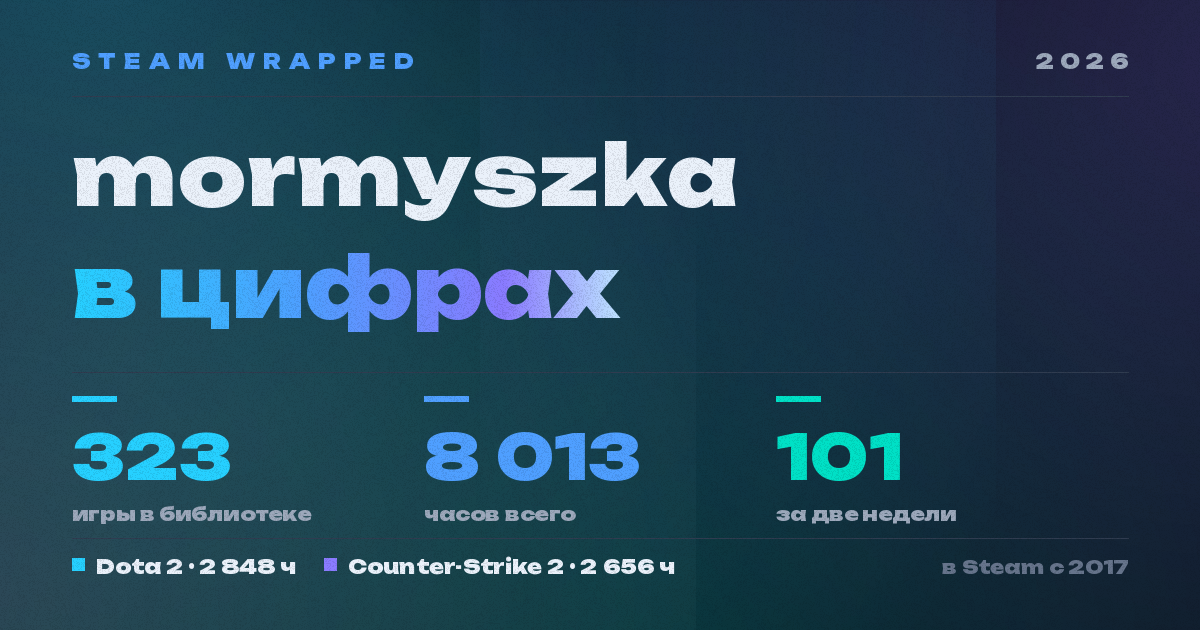
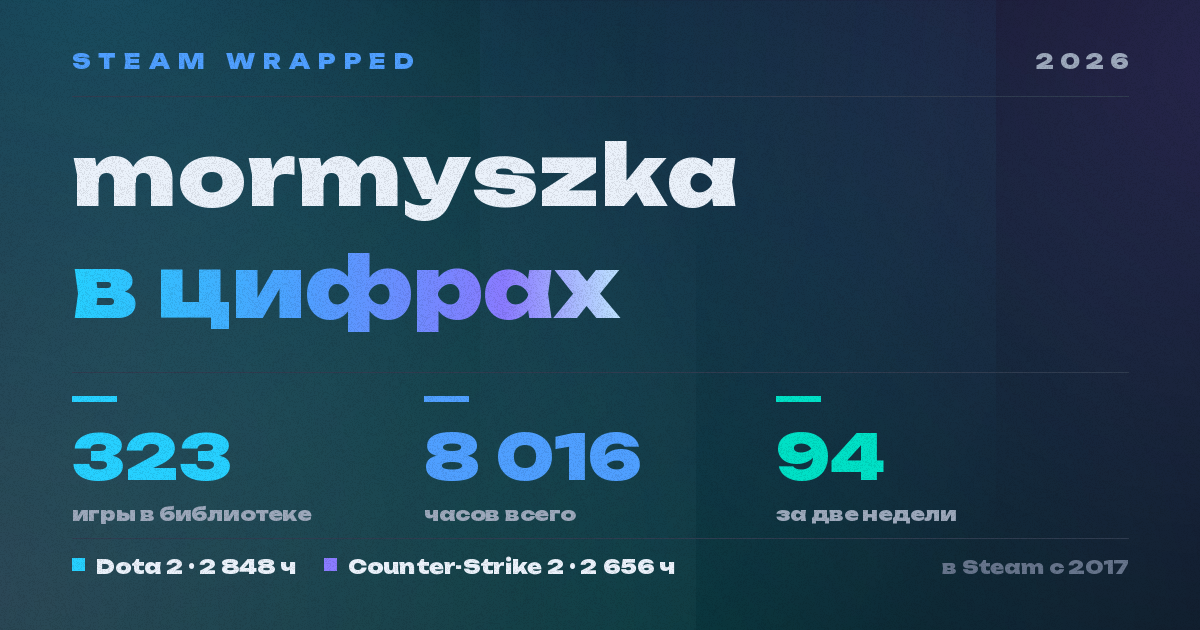
data: автообновление статистики Steam

Changed region(s): [[0.6475, 0.6635, 0.7708, 0.7841], [0.4933, 0.6937, 0.555, 0.754]]

diff --git a/assets/js/data.js b/assets/js/data.js
@@ -3,23 +3,23 @@
    -------------------------------------------------------------
    ФАЙЛ СГЕНЕРИРОВАН АВТОМАТИЧЕСКИ: python fetch_data.py
    Правки руками перезапишутся при следующем запуске.
-   Дата сборки: 2026-09-10
+   Дата сборки: 2026-09-11
    Образцовые данные лежат в data.sample.js
    ============================================================= */
 
 window.STEAM_DATA = {
-  "meta": {"persona": "mormyszka", "profileUrl": "https://steamcommunity.com/id/K_Ak4d0/", "avatar": "assets/img/avatar.jpg", "source": "steam-api", "generatedAt": "2026-09-10", "memberSince": "2017-02-02"},
+  "meta": {"persona": "mormyszka", "profileUrl": "https://steamcommunity.com/id/K_Ak4d0/", "avatar": "assets/img/avatar.jpg", "source": "steam-api", "generatedAt": "2026-09-11", "memberSince": "2017-02-02"},
 
-  "totals": {"gamesOwned": 323, "hoursTotal": 8013, "hoursTwoWeeks": 101, "gamesPlayed": 249, "gamesNeverPlayed": 68},
+  "totals": {"gamesOwned": 323, "hoursTotal": 8016, "hoursTwoWeeks": 94, "gamesPlayed": 249, "gamesNeverPlayed": 68},
 
   "soulmateAppid": 570,
 
   "genreHours": [
     {"name": "Экшен", "hours": 4796},
-    {"name": "Стратегия", "hours": 1502},
+    {"name": "Стратегия", "hours": 1503},
     {"name": "Приключения", "hours": 422},
     {"name": "RPG", "hours": 408},
-    {"name": "Инди", "hours": 326},
+    {"name": "Инди", "hours": 328},
     {"name": "Казуальные", "hours": 175},
     {"name": "Гонки", "hours": 174},
     {"name": "Симулятор", "hours": 28},
@@ -32,7 +32,7 @@ window.STEAM_DATA = {
     {"appid": 413150, "name": "Stardew Valley", "hours": 313, "hours2w": 0, "lastPlayed": "2026-07-12", "genres": ["Инди", "RPG"]},
     {"appid": 359550, "name": "Tom Clancy's Rainbow Six Siege", "hours": 179, "hours2w": 0, "lastPlayed": "2022-05-28", "genres": ["Экшен"]},
     {"appid": 1293830, "name": "Forza Horizon 4", "hours": 151, "hours2w": 0, "lastPlayed": "2024-11-24", "genres": ["Гонки"]},
-    {"appid": 2868840, "name": "Slay the Spire 2", "hours": 100, "hours2w": 61.8, "lastPlayed": "2026-09-09", "genres": ["Инди", "Стратегия"]},
+    {"appid": 2868840, "name": "Slay the Spire 2", "hours": 103, "hours2w": 55.1, "lastPlayed": "2026-09-10", "genres": ["Инди", "Стратегия"]},
     {"appid": 238960, "name": "Path of Exile", "hours": 99, "hours2w": 0, "lastPlayed": "2023-01-17", "genres": ["Экшен", "Приключения"]},
     {"appid": 1091500, "name": "Cyberpunk 2077", "hours": 85, "hours2w": 0, "lastPlayed": "2026-05-09", "genres": ["RPG"]},
     {"appid": 307780, "name": "Mortal Kombat X", "hours": 83, "hours2w": 0, "lastPlayed": "2026-01-12", "genres": ["Экшен"]},
